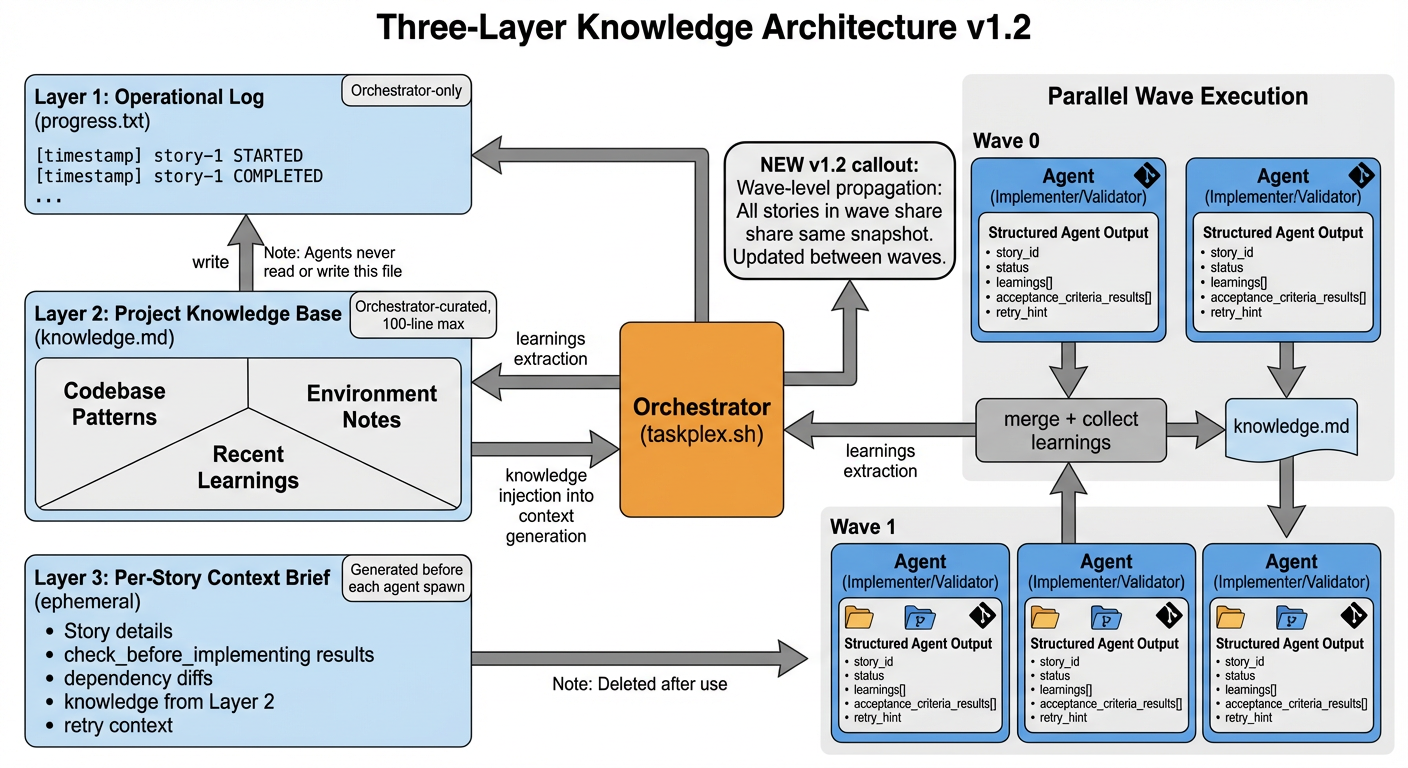
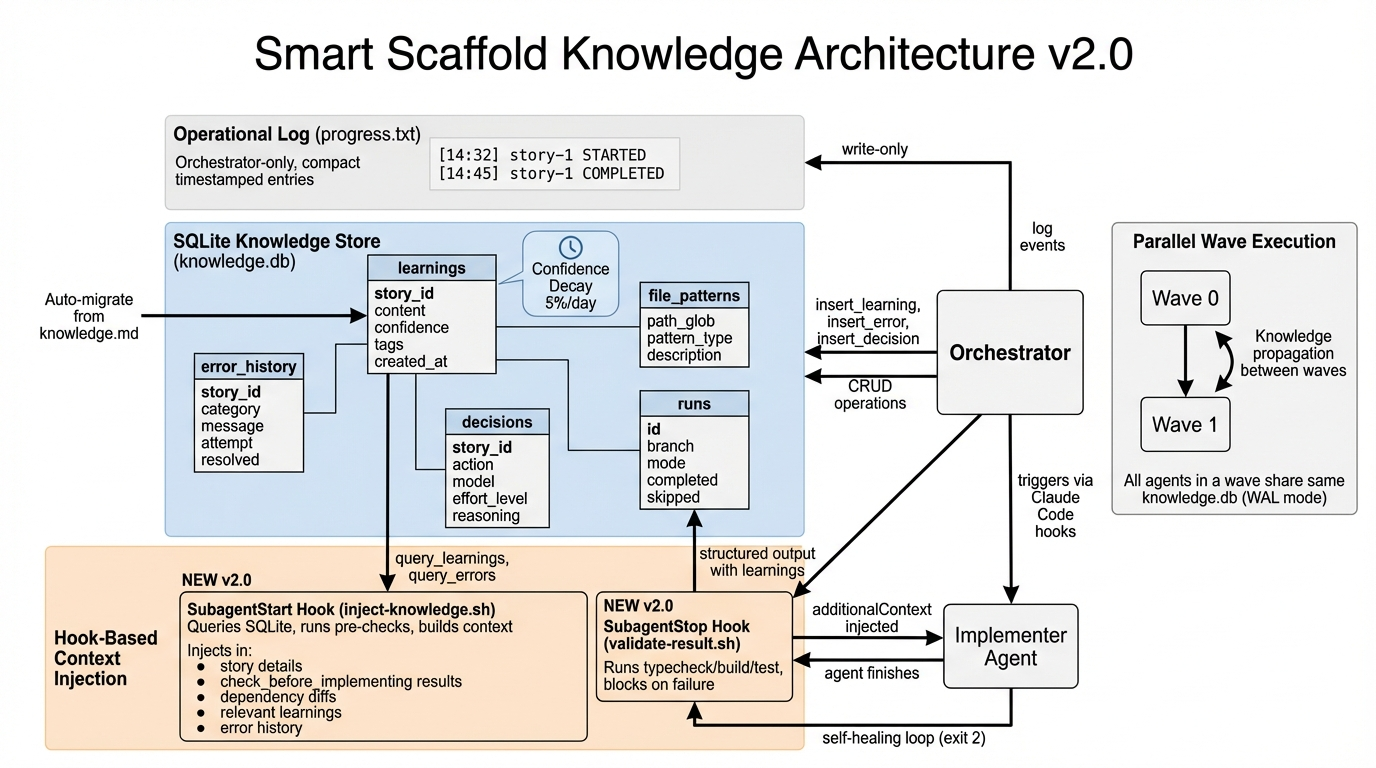
docs: update architecture diagrams and README for v2.0
- Regenerate orchestration flow diagram with v2.0 elements:
  decision calls, SubagentStart/Stop hooks, self-healing loop, SQLite
- Regenerate knowledge architecture diagram showing SQLite store,
  hook-based context injection, confidence decay, 5 tables
- Update README: version badge, description, features, config table,
  knowledge architecture section, key files table

diff --git a/README.md b/README.md
@@ -4,11 +4,11 @@
   <img src="./assets/TaskPlex_Hero@0.5x.png" alt="TaskPlex - Parallel Autonomous Dev Assistant" width="800" />
 </p>
 
-[![Version](https://img.shields.io/badge/version-1.2.1-blue.svg)](https://github.com/flight505/taskplex)
+[![Version](https://img.shields.io/badge/version-2.0.0-blue.svg)](https://github.com/flight505/taskplex)
 [![License](https://img.shields.io/badge/license-MIT-green.svg)](LICENSE)
 [![Claude Code Plugin](https://img.shields.io/badge/Claude%20Code-Plugin-purple.svg)](https://github.com/anthropics/claude-code)
 
-Resilient autonomous development assistant with custom subagents, error categorization, wave-based parallel execution via git worktrees, and a three-layer knowledge architecture that learns as it builds.
+Resilient autonomous development assistant with Smart Scaffold intelligence: 1-shot decision calls for per-story model routing, SubagentStart/Stop hooks for context injection and inline validation, SQLite knowledge store with confidence decay, and wave-based parallel execution via git worktrees.
 
 Successor to [SDK Bridge](https://github.com/flight505/sdk-bridge). Based on [Geoffrey Huntley's Ralph pattern](https://ghuntley.com/ralph/).
 
@@ -20,7 +20,7 @@ Successor to [SDK Bridge](https://github.com/flight505/sdk-bridge). Based on [Ge
   <img src="./assets/taskplex-orchestration-flow.png" alt="TaskPlex Orchestration Loop" width="800" />
 </p>
 
-TaskPlex runs a **bash orchestration loop** that spawns fresh Claude subagents for each story. Each agent gets a clean context window with a targeted **context brief** — no context pollution, no accumulated hallucinations.
+TaskPlex runs a **bash orchestration loop** that spawns fresh Claude subagents for each story. A **1-shot decision call** picks the optimal model and effort level per story. The **SubagentStart hook** injects context from the SQLite knowledge store, and the **SubagentStop hook** runs inline validation with agent self-healing.
 
 The loop continues until all stories pass validation or max iterations are reached.
 
@@ -28,19 +28,25 @@ The loop continues until all stories pass validation or max iterations are reach
 
 ## Features
 
+**Decision Calls** (v2.0) — 1-shot Opus call per story picks the optimal model (haiku/sonnet/opus) and effort level based on story complexity, error history, and codebase patterns. ~$0.03/story overhead.
+
+**SubagentStart Hook** (v2.0) — Automatically queries the SQLite knowledge store and injects context (learnings, error history, dependency diffs, pre-implementation checks) into each agent spawn. Replaces manual context brief generation.
+
+**Inline Validation & Self-Healing** (v2.0) — SubagentStop hook runs typecheck/build/test after each agent finishes. If validation fails, the agent is blocked and continues fixing in the same session — no iteration wasted.
+
+**SQLite Knowledge Store** (v2.0) — Persistent storage for learnings, errors, decisions, and runs. Confidence decay at 5%/day ensures stale knowledge auto-expires. Auto-migrates from `knowledge.md` on first run.
+
 **Custom Subagents** — Purpose-built agents with restricted tools and right-sized models replace monolithic `claude -p` calls.
 
 **Error Categorization & Retry** — Failed tasks are classified (env_missing, test_failure, code_error, etc.) with intelligent retry/skip decisions and max retry limits.
 
-**Three-Layer Knowledge** — Operational log, curated knowledge base, and ephemeral context briefs ensure each agent gets exactly the context it needs.
-
-**Dependency-Aware Execution** — Stories declare `depends_on` and `related_to` relationships. The orchestrator enforces execution order and injects dependency diffs into context briefs.
+**Dependency-Aware Execution** — Stories declare `depends_on` and `related_to` relationships. The orchestrator enforces execution order and injects dependency diffs.
 
 **Quality Gate Hooks** — PostToolUse hooks block destructive git commands (`push --force`, `reset --hard`, direct push to main) during implementation.
 
 **Already-Implemented Detection** — Agents search for existing implementation before coding. If all acceptance criteria are already met, the story is marked complete in seconds.
 
-**Parallel Execution via Worktrees** (v1.2) — Independent stories run simultaneously in separate git worktrees. The dependency graph is partitioned into waves — all stories within a wave execute in parallel, then merge back before the next wave begins. Opt-in with `parallel_mode: "parallel"`.
+**Parallel Execution via Worktrees** (v1.2) — Independent stories run simultaneously in separate git worktrees, partitioned into waves based on the dependency graph. Opt-in with `parallel_mode: "parallel"`.
 
 ---
 
@@ -127,39 +133,39 @@ TaskPlex will guide you through a 7-checkpoint interactive wizard:
 
 ---
 
-## Knowledge Architecture
+## Smart Scaffold Knowledge Architecture (v2.0)
 
 <p align="center">
-  <img src="./assets/taskplex-knowledge-architecture.png" alt="Three-Layer Knowledge Architecture" width="800" />
+  <img src="./assets/taskplex-knowledge-architecture.png" alt="Smart Scaffold Knowledge Architecture v2.0" width="800" />
 </p>
 
-TaskPlex uses a three-layer system to manage knowledge across agent spawns:
+TaskPlex uses a three-layer system with SQLite-backed persistence and hook-based context injection:
 
 ### Layer 1: Operational Log (`progress.txt`)
 
 Orchestrator-only. Compact timestamped entries tracking story lifecycle events. Agents never read or write this file.
 
-```
-[14:32] story-1 START
-[14:45] story-1 COMPLETE (learnings extracted)
-[14:45] story-2 START
-[14:52] story-2 FAIL (test_failure, retry 1/2)
-```
+### Layer 2: SQLite Knowledge Store (`knowledge.db`)
 
-### Layer 2: Project Knowledge Base (`knowledge.md`)
+Five tables with automatic confidence decay (5%/day — stale learnings expire after ~30 days):
+- **learnings** — codebase patterns and conventions extracted from agent output
+- **error_history** — categorized errors with resolution tracking
+- **decisions** — per-story decision call results (action, model, effort)
+- **file_patterns** — discovered file conventions
+- **runs** — execution lifecycle tracking
 
-Orchestrator-curated. After each story, the orchestrator extracts `learnings` from the agent's structured output and appends them here. Sections: **Codebase Patterns**, **Environment Notes**, **Recent Learnings**. Capped at 100 lines with oldest-entry trimming.
+Auto-migrates from `knowledge.md` on first run (one-time, idempotent).
 
-### Layer 3: Per-Story Context Brief (ephemeral)
+### Layer 3: Hook-Based Context Injection
 
-Generated before each agent spawn. Contains:
+The **SubagentStart hook** (`inject-knowledge.sh`) automatically queries SQLite and injects into each agent:
 - Story details and acceptance criteria
 - `check_before_implementing` results (grep output)
 - Git diffs from dependency stories
-- Relevant entries from `knowledge.md`
-- Retry context (if retrying a failed story)
+- Relevant learnings from knowledge store
+- Error history and retry context
 
-Deleted after use. This is the bridge between persistent knowledge and fresh agent context.
+The **SubagentStop hook** (`validate-result.sh`) runs typecheck/build/test after each agent finishes. If validation fails, the agent is blocked (exit 2) and self-heals in the same session.
 
 ---
 
@@ -215,7 +221,12 @@ After first run, edit `.claude/taskplex.config.json`:
   "max_parallel": 3,
   "worktree_dir": "",
   "worktree_setup_command": "",
-  "conflict_strategy": "abort"
+  "conflict_strategy": "abort",
+  "decision_calls": true,
+  "decision_model": "opus",
+  "knowledge_db": "knowledge.db",
+  "validate_on_stop": true,
+  "model_routing": "auto"
 }
 ```
 
@@ -238,6 +249,11 @@ After first run, edit `.claude/taskplex.config.json`:
 | `worktree_dir` | — | Custom worktree base directory (default: `../.worktrees`) |
 | `worktree_setup_command` | — | Command run in each new worktree (e.g., `npm install`) |
 | `conflict_strategy` | abort | `abort` (skip on conflict) or `merger` (invoke merger agent) |
+| `decision_calls` | true | Enable 1-shot decision calls per story (~$0.03/story) |
+| `decision_model` | opus | Model for decision calls |
+| `knowledge_db` | knowledge.db | SQLite knowledge store path |
+| `validate_on_stop` | true | Enable SubagentStop inline validation |
+| `model_routing` | auto | `auto` (decision call picks) or `fixed` (use execution_model) |
 
 **Model selection:**
 - **Opus 4.6 (high effort)**: Best code quality, deepest reasoning
@@ -273,7 +289,7 @@ OAuth is used when available, with automatic fallback to API key.
 | `prd.json` | Task list with execution status (source of truth) |
 | `tasks/prd-*.md` | Human-readable PRD |
 | `progress.txt` | Operational log (orchestrator-only) |
-| `knowledge.md` | Curated project knowledge base |
+| `knowledge.db` | SQLite knowledge store (v2.0 — replaces knowledge.md) |
 | `.claude/taskplex.config.json` | Configuration |
 
 ---
@@ -318,14 +334,16 @@ git log --oneline -10
 
 TaskPlex is a **next-generation rewrite** of SDK Bridge with:
 
-- **Custom subagents** replace monolithic `claude -p` calls — each agent has restricted tools and a right-sized model
+- **Smart Scaffold intelligence** (v2.0) — 1-shot decision calls, SQLite knowledge store, hook-based context injection, inline validation with self-healing
+- **Model routing** (v2.0) — decision call picks haiku/sonnet/opus per story based on complexity and error history
+- **SubagentStart/Stop hooks** (v2.0) — automatic context injection and inline validation replace manual flows
+- **Custom subagents** — purpose-built agents with restricted tools and right-sized models
 - **Error categorization** with intelligent retry/skip decisions (6 error categories)
-- **Three-layer knowledge architecture** — operational log, curated knowledge base, ephemeral context briefs
+- **SQLite knowledge store** with confidence decay, error tracking, and decision history
 - **Structured agent output** with learnings extraction, per-AC results, and retry hints
 - **Dependency-aware execution** with enforced ordering and dependency diffs
 - **Quality gate hooks** blocking destructive git commands during implementation
-- **JSON configuration** replacing YAML frontmatter
-- **Wave-based parallel execution** (v1.2) — independent stories run simultaneously in git worktrees with automatic merge and knowledge propagation
+- **Wave-based parallel execution** (v1.2) — independent stories run simultaneously in git worktrees
 
 ---
 
